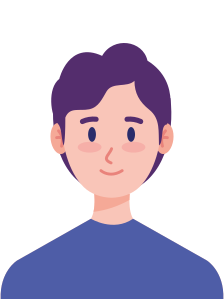
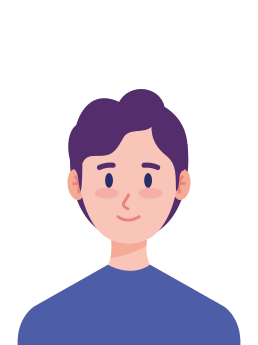
z

Changed region(s): [[0.0, 0.1204, 1.0, 1.0]]

diff --git a/index.html b/index.html
@@ -4,11 +4,11 @@
 		<meta charset="UTF-8">
 		<meta content="text/html; charset=UTF-8" http-equiv="Content-Type">
 		<meta content="width=device-width, initial-scale=1.0" name="viewport">
-		<link rel="icon" href="https://hiepdeep.github.io/library/favicon/logo-light.ico">
+		<link rel="icon" href="library/favicon/logo-light.ico">
 		<title>Curriculum Vitae</title>
 		<meta name="title" content="Curriculum Vitae HiepDeep">
 		<meta name="description" content="Curriculum Vitae HiepDeep">
-		<link rel="stylesheet" href="https://hiepdeep.github.io/library/style/style.css">
+		<link rel="stylesheet" href="library/style/style.css">
 		<style>
 			::-webkit-scrollbar {
 				width: 0px;
@@ -258,7 +258,7 @@
 			<div class="sidebar-left">
 				<div class="item">
 					<div class="thumb">
-						<img src="https://hiepdeep.github.io/library/pictures/2505667a0b3ab260f2f2e7b97d9cbd18.jpg" alt="">
+						<img src="https://hiepdeep.github.io/library/pictures/boy.png" alt="">
 					</div>
 					<span class="text fullname">Ngo Van Hiep</span>
 					<span class="text profession">SMT & NPI Associated Engineer</span>
